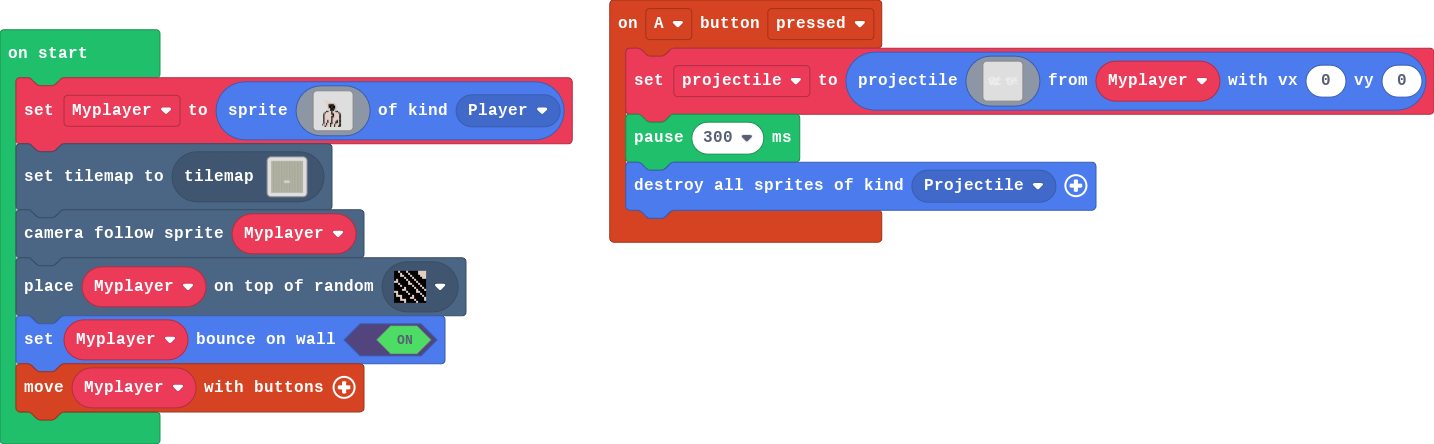
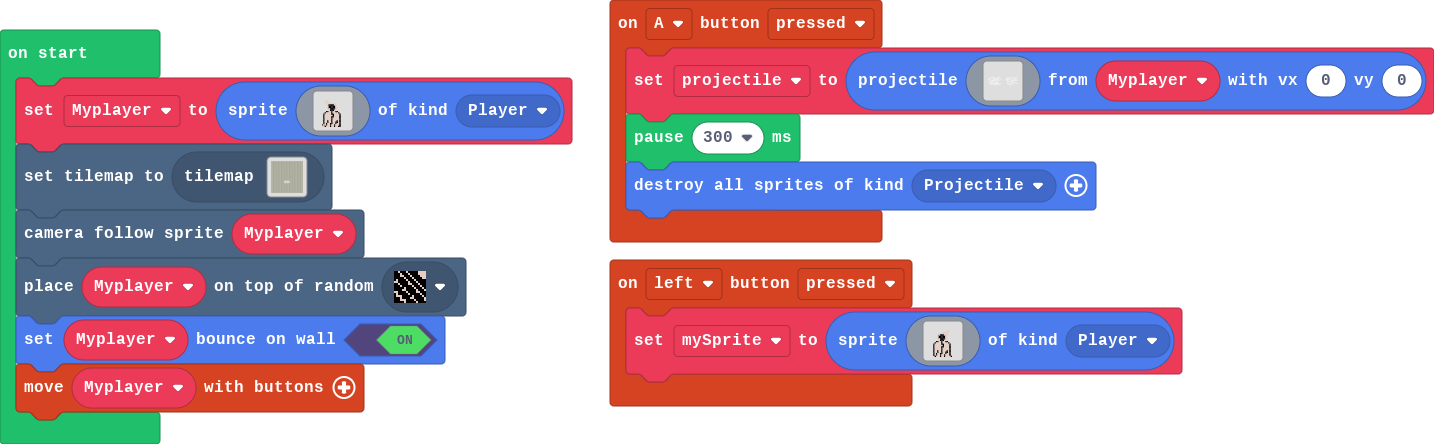
Update main.blocks, main.ts

Changed region(s): [[0.3989, 0.5856, 0.8285, 0.9369], [0.6137, 0.2342, 0.9819, 0.2635], [0.2762, 0.6149, 0.3068, 0.6734]]

diff --git a/main.ts b/main.ts
@@ -27,6 +27,35 @@ controller.A.onEvent(ControllerButtonEvent.Pressed, function () {
     pause(300)
     sprites.destroyAllSpritesOfKind(SpriteKind.Projectile)
 })
+controller.left.onEvent(ControllerButtonEvent.Pressed, function () {
+    mySprite = sprites.create(img`
+        ................
+        ................
+        ................
+        ................
+        ...........dd...
+        ........ddddd...
+        .....ddddddd....
+        ....ddfffddd....
+        ....dfffffd.....
+        ....dfffffdd....
+        ....ddffffd.....
+        .....dfffdd.....
+        ...ffddfddff....
+        ..fddddfddddf...
+        .fdddddffddddf..
+        .fddddddfddddf..
+        .fdddddffddddf..
+        .fdddddfdddddf..
+        .fdddddfdddddf..
+        .fddfddfdddfdf..
+        .fddfddfddffdf..
+        .fdfddffddfddf..
+        .fdfddfddfdddf..
+        ..fdddfddfddddf.
+        `, SpriteKind.Player)
+})
+let mySprite: Sprite = null
 let projectile: Sprite = null
 let Myplayer: Sprite = null
 Myplayer = sprites.create(img`
